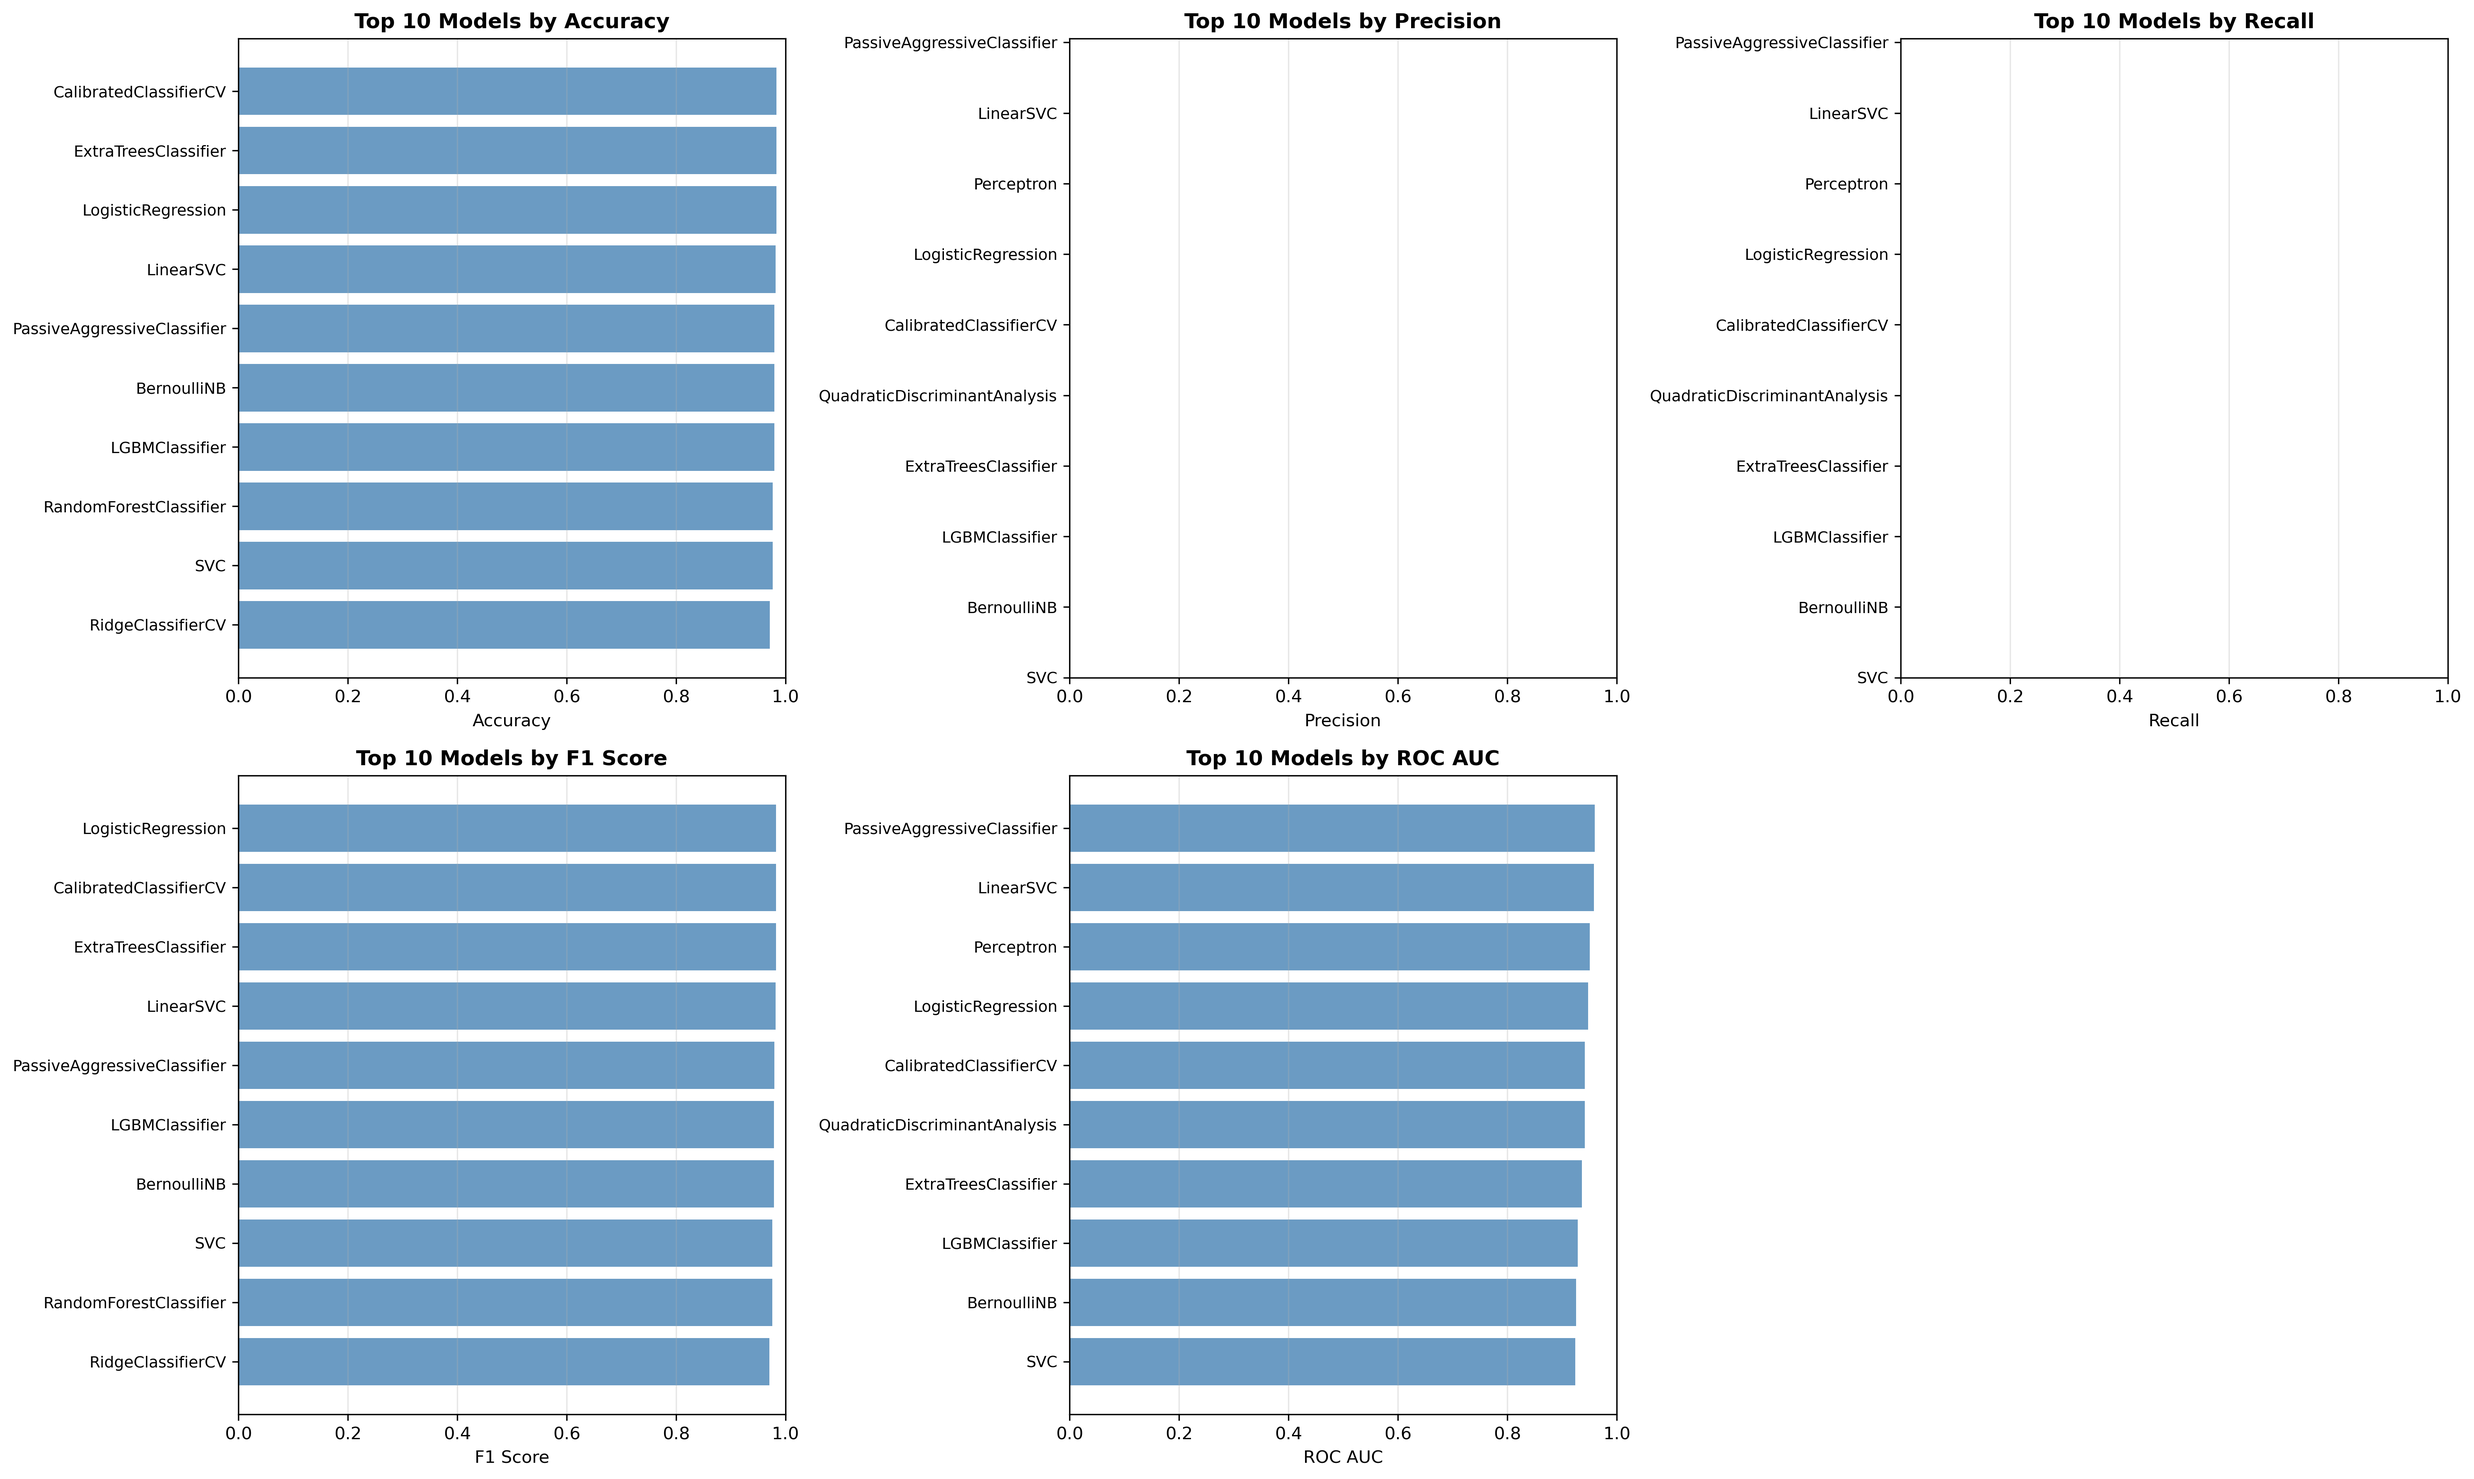
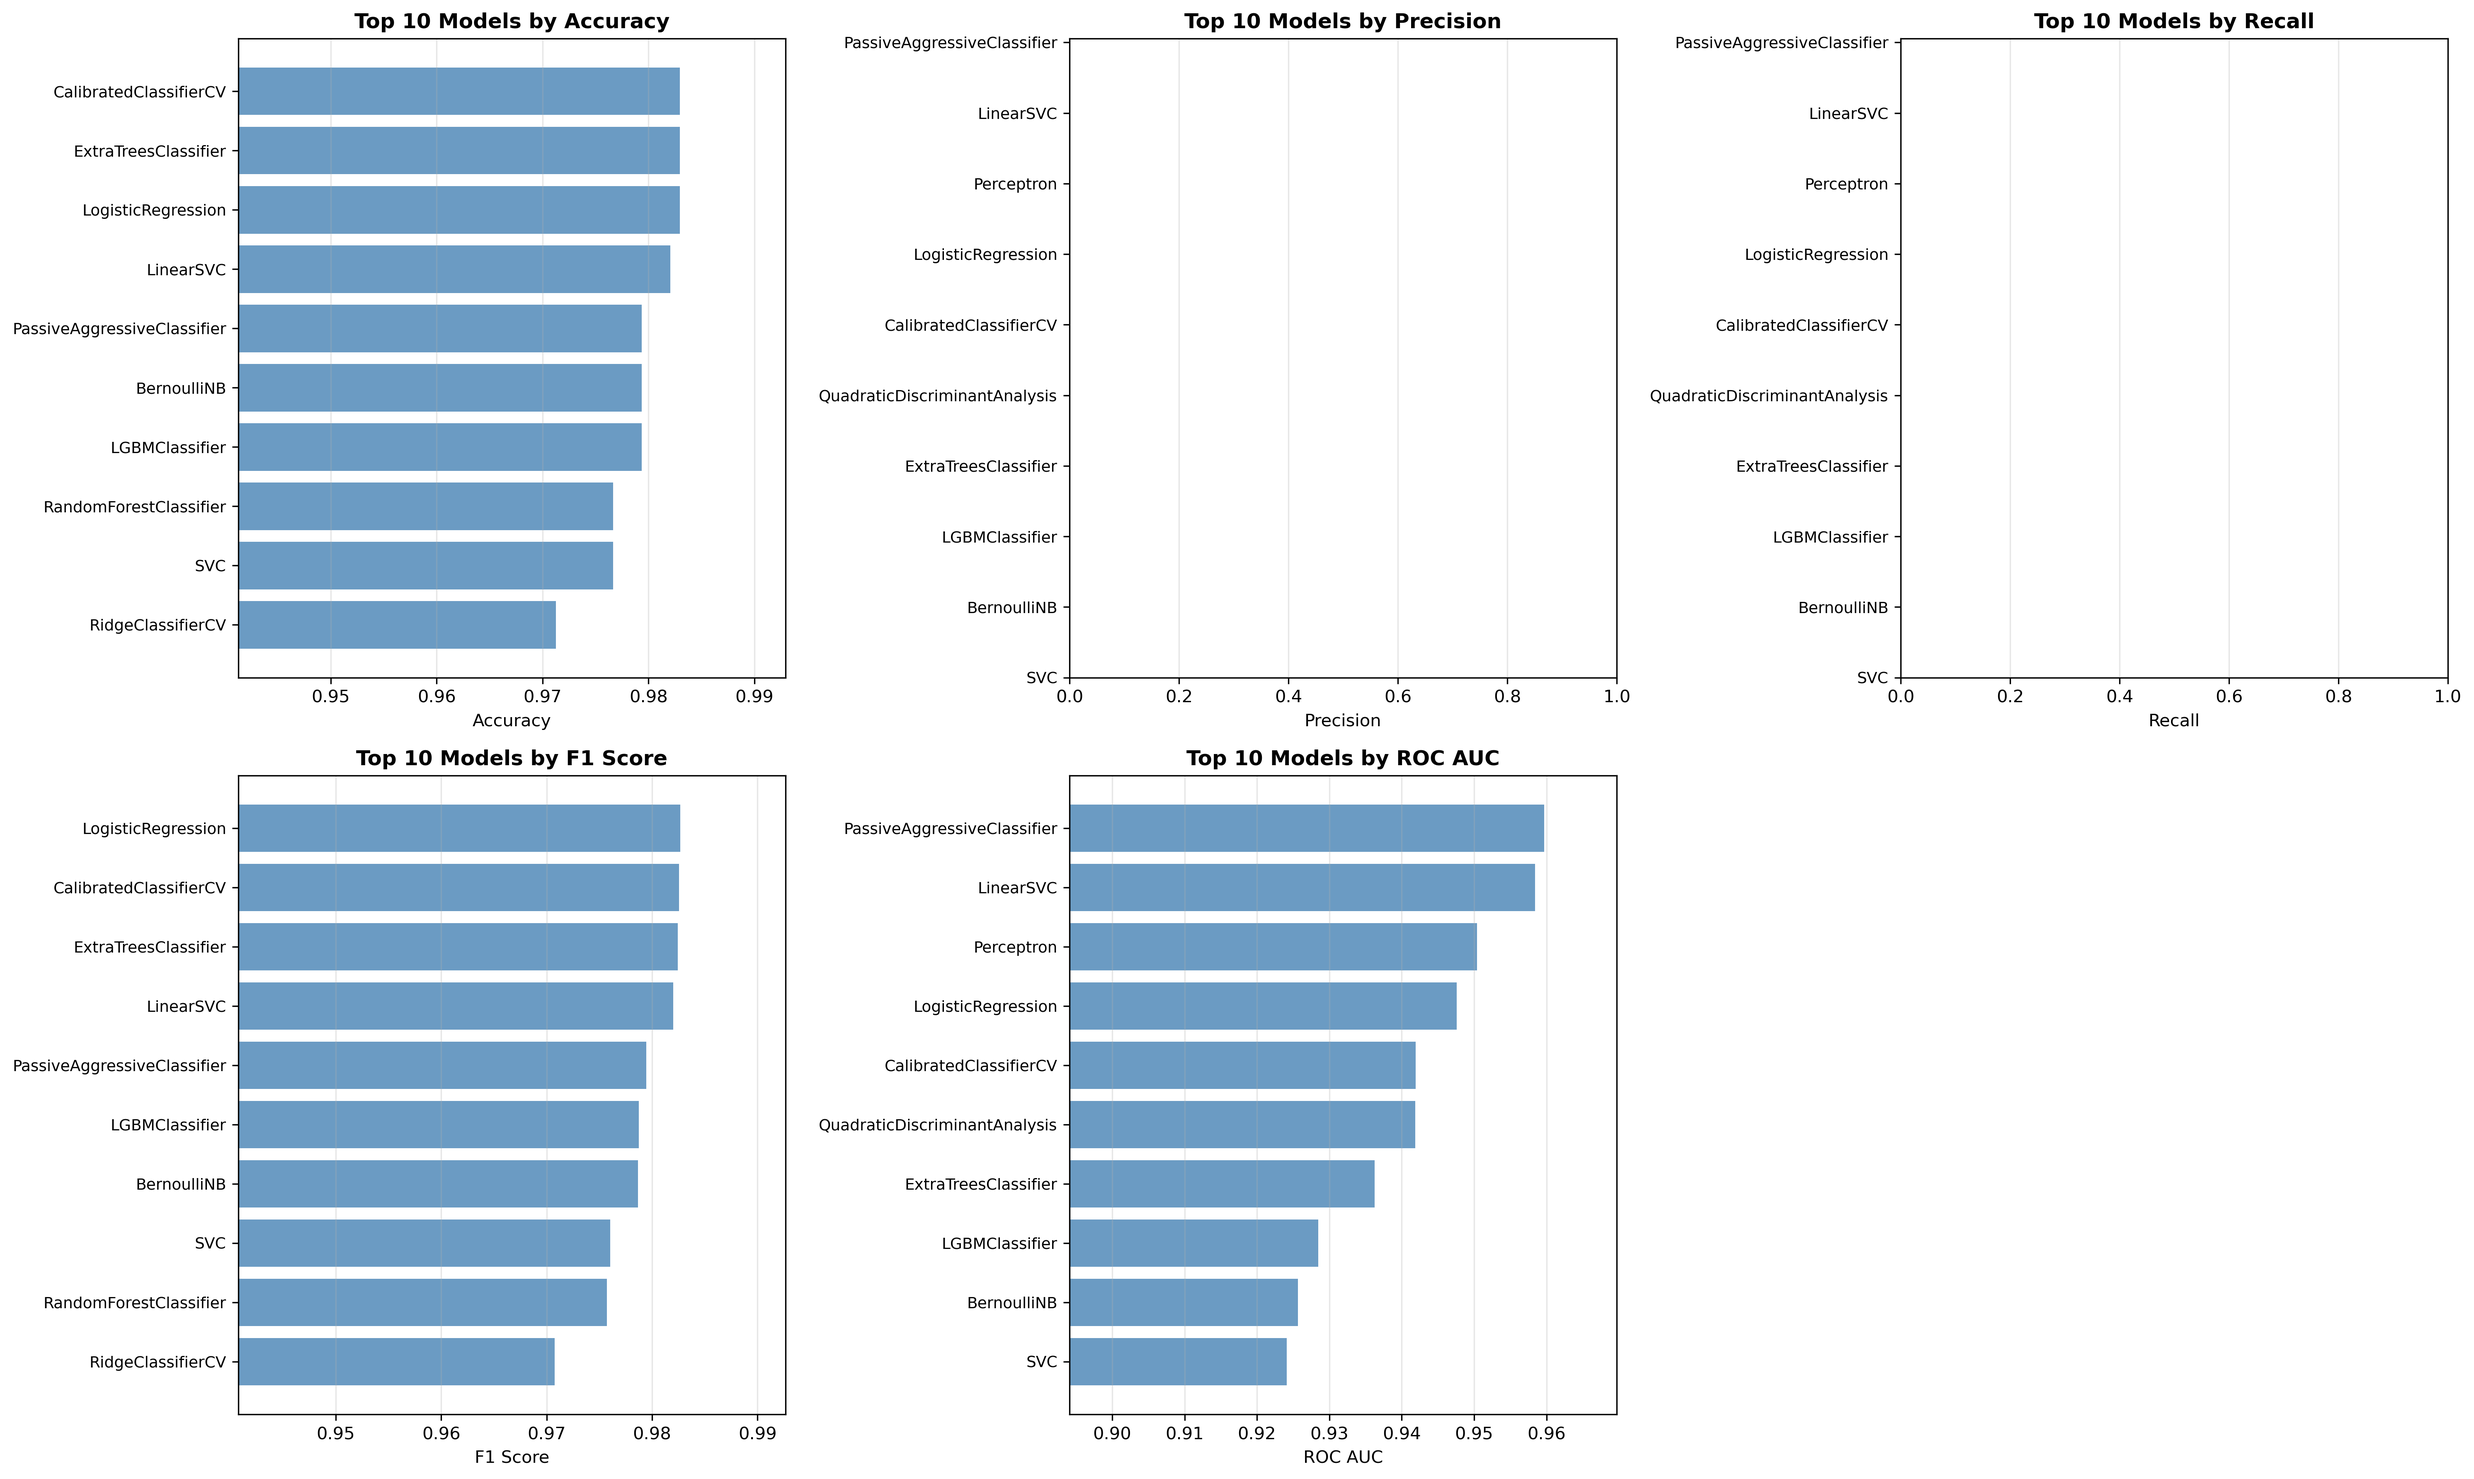
ml updates

Changed region(s): [[0.4987, 0.5289, 0.6545, 0.9644], [0.2182, 0.5289, 0.3117, 0.9644], [0.2182, 0.0311, 0.3117, 0.4666]]

diff --git a/traditional_ml.py b/traditional_ml.py
@@ -72,30 +72,34 @@ print("(This may take a few minutes...)\n")
 clf = LazyClassifier(verbose=0, ignore_warnings=True, custom_metric=None)
 models, predictions = clf.fit(X_train_df, X_test_df, y_train, y_test)
 
-# Calculate Precision and Recall for each model
+# Calculate Precision and Recall for each model from predictions
 print("\nCalculating Precision and Recall for all models...")
 precision_scores = []
 recall_scores = []
 
 for model_name in models.index:
-    # Skip models that don't have predictions (they may have failed)
-    if model_name not in predictions.columns:
-        print(f"⚠ Skipping {model_name} - no predictions available")
+    try:
+        # Get predictions for this model
+        y_pred = predictions[model_name].values
+        precision = precision_score(y_test, y_pred, average='binary', zero_division=0)
+        recall = recall_score(y_test, y_pred, average='binary', zero_division=0)
+        precision_scores.append(precision)
+        recall_scores.append(recall)
+    except KeyError:
+        # Model failed and has no predictions
         precision_scores.append(np.nan)
         recall_scores.append(np.nan)
-        continue
-
-    y_pred = predictions[model_name]
-    precision = precision_score(y_test, y_pred, average='binary', zero_division=0)
-    recall = recall_score(y_test, y_pred, average='binary', zero_division=0)
-    precision_scores.append(precision)
-    recall_scores.append(recall)
+    except Exception as e:
+        # Other errors
+        print(f"⚠ Error processing {model_name}: {e}")
+        precision_scores.append(np.nan)
+        recall_scores.append(np.nan)
 
 # Add Precision and Recall columns to models DataFrame
 models['Precision'] = precision_scores
 models['Recall'] = recall_scores
 
-print(f"✓ Added Precision and Recall metrics to {len(models)} models")
+print(f"✓ Evaluated {len(models)} models with Accuracy, F1-Score, ROC AUC, Precision, and Recall")
 
 # Display results sorted by F1-Score
 print("\nTop 15 Models by F1-Score:")
@@ -132,7 +136,26 @@ for idx, metric in enumerate(metrics):
     ax.set_yticklabels(top_data.index, fontsize=9)
     ax.set_xlabel(metric, fontsize=10)
     ax.set_title(f'Top {top_n} Models by {metric}', fontsize=12, fontweight='bold')
-    ax.set_xlim([0, 1])
+
+    # Dynamically adjust x-axis for better visibility
+    # If minimum value is > 0.9, zoom in to show differences better
+    min_val = top_data[metric].min()
+    max_val = top_data[metric].max()
+
+    if min_val > 0.9:
+        # Zoom in to show differences in high-performing models
+        x_min = max(0, min_val - 0.03)
+        x_max = min(1.0, max_val + 0.01)
+        ax.set_xlim([x_min, x_max])
+    elif min_val > 0.85:
+        # Moderate zoom for good performers
+        x_min = max(0, min_val - 0.05)
+        x_max = min(1.0, max_val + 0.02)
+        ax.set_xlim([x_min, x_max])
+    else:
+        # Use standard 0-1 range for more varied scores
+        ax.set_xlim([0, 1])
+
     ax.grid(axis='x', alpha=0.3)
     ax.invert_yaxis()
 
